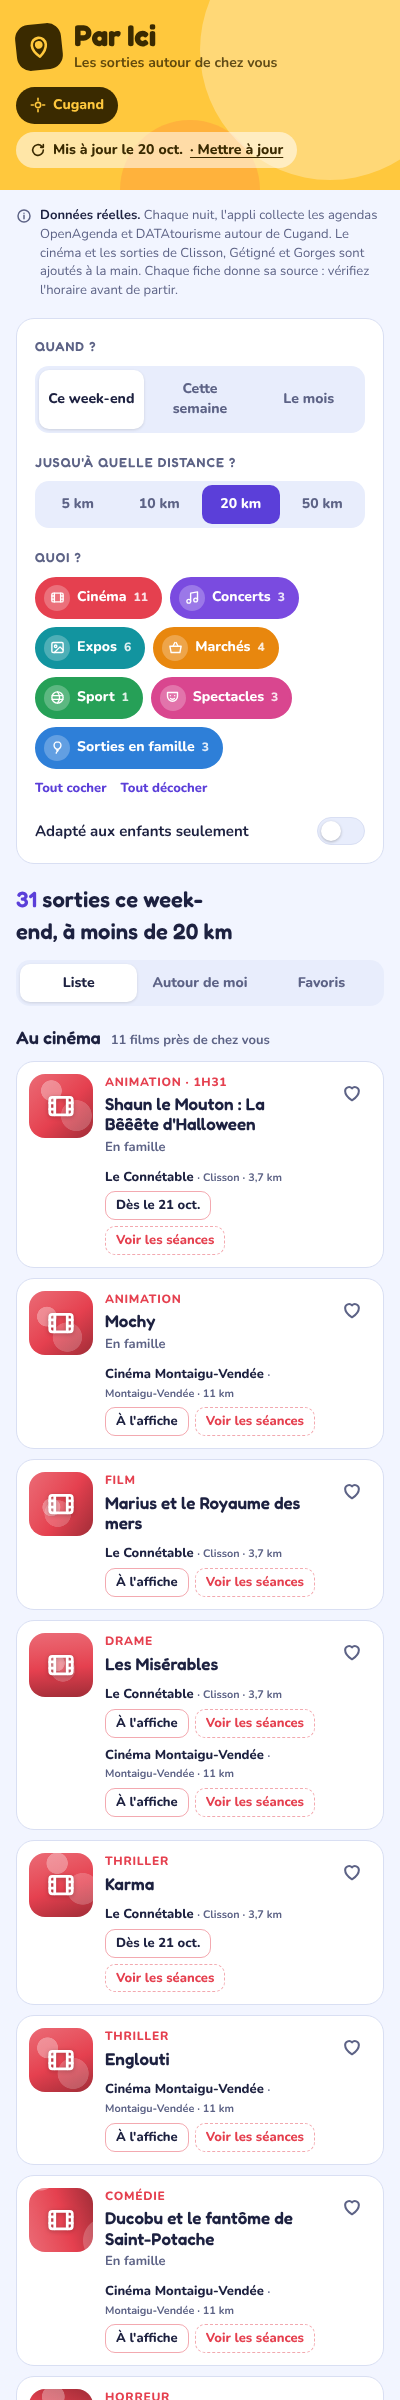
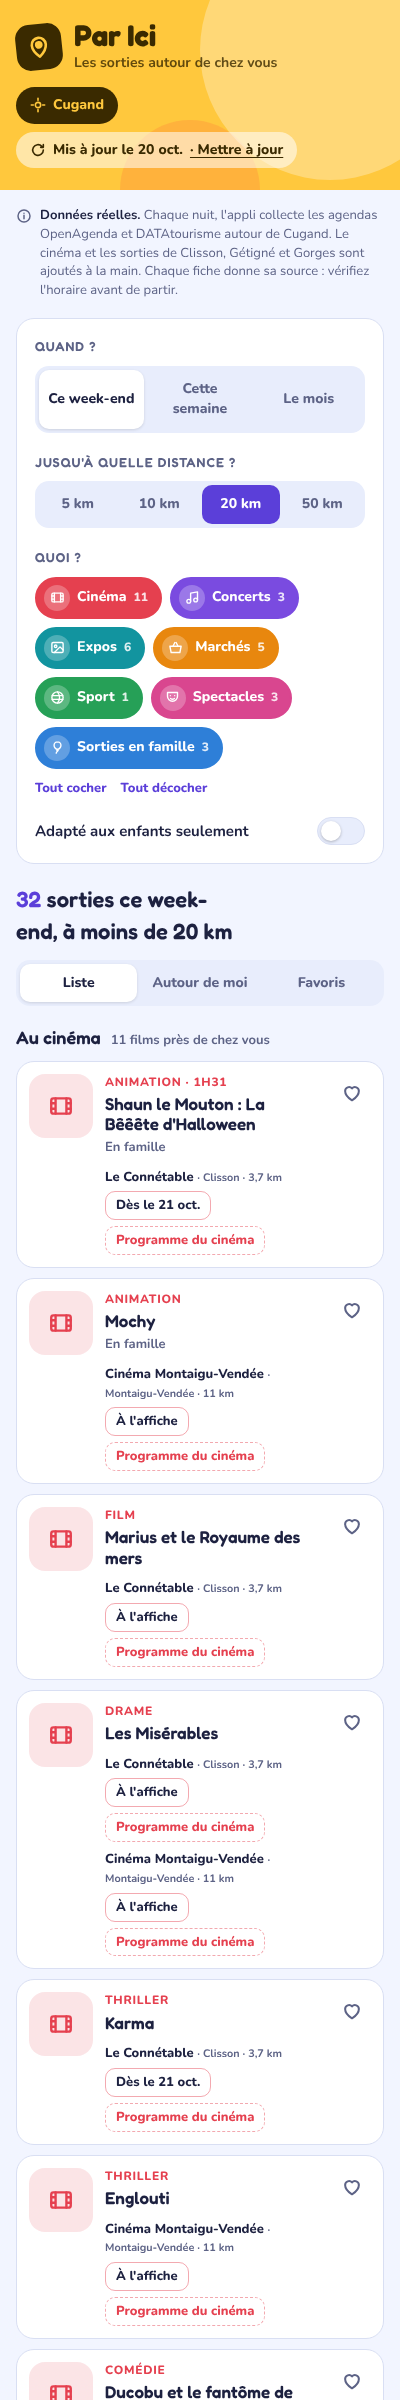
Mise à jour manuelle du 20 octobre (soir)
Jardin de Verre (Mesdemoiselles, plateau partagé), marché de Vallet,
horaires et âge de Rond-Rond.

Claude-Session: https://claude.ai/code/session_01EcVZPgTXZjzsUvP3KH8hjj

diff --git a/public/data.js b/public/data.js
@@ -22,7 +22,8 @@ const C = {
   mortagne: { n: 'Mortagne-sur-Sèvre', lat: 46.9917, lon: -0.9494 },
   boissiere: { n: 'La Boissière-du-Doré', lat: 47.2369, lon: -1.2156 },
   nantes: { n: 'Nantes', lat: 47.2184, lon: -1.5536 },
-  saintherblain: { n: 'Saint-Herblain', lat: 47.2122, lon: -1.6497 }
+  saintherblain: { n: 'Saint-Herblain', lat: 47.2122, lon: -1.6497 },
+  vallet: { n: 'Vallet', lat: 47.1617, lon: -1.2660 }
 };
 
 const SRC = {
@@ -52,7 +53,9 @@ const SRC = {
   boussayChamp: ['Infos Média Nantes, Boussay', 'https://infos-media-nantes.fr/boussay-exposition-champignons-24-25-octobre-2026/'],
   garenne: ['Domaine de la Garenne Lemot', 'https://www.domaine-garenne-lemot.fr/44/l-agenda/agenda-du-domaine-de-la-garenne-lemot/lem_5209'],
   zenith: ['Zénith Nantes Métropole', 'https://www.zenith-nantesmetropole.com/program'],
-  choletBasket: ['Billetterie Cholet Basket', 'https://www.biletwise.com/fr/cholet-basket-tickets']
+  choletBasket: ['Billetterie Cholet Basket', 'https://www.biletwise.com/fr/cholet-basket-tickets'],
+  jardinVerre: ['Jardin de Verre, Cholet', 'https://www.cholet.fr/agenda/agenda_cat_12_8_10_jardin+verre.html'],
+  valletMkt: ['Alentoor, Vallet', 'https://www.alentoor.fr/vallet/agenda']
 };
 
 // Real events collected on 19 October 2026. d = date, to = last day of a multi-day event.
@@ -107,7 +110,9 @@ const EV = [
   { cat: 'spectacle', t: 'La FIV du samedi soir', c: 'cholet', d: '2026-11-06', to: '2026-11-07', h: 'En soirée', p: '21 €', place: 'Balcon Café Théâtre', desc: 'Comédie.', s: 'cholet' },
   { cat: 'spectacle', t: 'ADN', c: 'cholet', d: '2026-11-12', h: 'Horaire à confirmer', p: 'Voir la billetterie', place: 'Théâtre Saint-Louis', desc: 'Théâtre.', s: 'stlouis' },
   { cat: 'spectacle', t: 'La Noce d\'Alphonse', c: 'cholet', d: '2026-11-17', h: 'Horaire à confirmer', p: 'Voir la billetterie', place: 'Théâtre Saint-Louis', desc: 'Théâtre.', s: 'stlouis' },
-  { cat: 'spectacle', t: 'Rond Rond', c: 'cholet', d: '2026-11-18', h: 'Horaire à confirmer', p: 'Voir la billetterie', place: 'Théâtre Saint-Louis', desc: 'Spectacle de la saison du Théâtre Saint-Louis.', s: 'stlouis' },
+  { cat: 'spectacle', t: 'Rond-Rond', c: 'cholet', d: '2026-11-18', h: '10h00 et 16h30', p: 'Voir la billetterie', kids: true, place: 'Théâtre Saint-Louis, salle Gene Kelly', desc: 'Spectacle tout-petits de la compagnie Piment, Langue d\'Oiseau, pour les 1-5 ans.', s: 'stlouis' },
+  { cat: 'spectacle', t: 'Mesdemoiselles', c: 'cholet', d: '2026-11-15', h: 'Horaire à confirmer', p: 'Voir la billetterie', place: 'Jardin de Verre', desc: 'Spectacle de la saison du Jardin de Verre.', s: 'jardinVerre' },
+  { cat: 'concert', t: 'Plateau partagé : Coline Linder', c: 'cholet', d: '2026-11-19', h: 'Horaire à confirmer', p: 'Voir la billetterie', place: 'Jardin de Verre', desc: 'Soirée plateau partagé avec Coline Linder.', s: 'jardinVerre' },
   { cat: 'concert', t: 'Daoud', c: 'herbiers', d: '2026-11-05', h: '20h30', p: 'Voir la billetterie', place: 'Saison culturelle des Herbiers', desc: 'Concert de la saison culturelle.', s: 'herbiers' },
   { cat: 'famille', t: 'Fête de la fressure', c: 'herbiers', d: '2026-11-07', h: 'Horaire à confirmer', p: 'À confirmer', place: 'Salle Ferchault', desc: 'Fête traditionnelle autour de la fressure, plat vendéen de saison.', s: 'alentoorH' },
   { cat: 'concert', t: 'Thanda Choir', c: 'herbiers', d: '2026-11-10', h: '20h30', p: 'Complet', place: 'Saison culturelle des Herbiers', desc: 'Concert de chœur. Annoncé complet.', s: 'herbiers' },
@@ -133,6 +138,7 @@ const EV = [
 
 // Weekly markets, expanded into dated occurrences below. wd: 0 = Sunday … 6 = Saturday.
 const MARKETS = [
+  { t: 'Marché du dimanche', c: 'vallet', wd: 0, h: 'Le matin', place: 'Place Charles de Gaulle', desc: 'Grand marché du dimanche matin, près de 80 commerçants.', s: 'valletMkt' },
   { t: 'Marché alimentaire sous les Halles', c: 'clisson', wd: 2, h: '8h30 – 13h00', place: 'Halles de Clisson', desc: 'Marché alimentaire hebdomadaire sous les halles médiévales.', s: 'clissonMkt' },
   { t: 'Grand marché du vendredi', c: 'clisson', wd: 5, h: 'Le matin', place: 'Centre historique de Clisson', desc: 'Alimentation, vêtements, outillage et jardinage. Les stands vont jusqu\'à la place Lemot et au parking du château.', s: 'clissonMkt' },
   { t: 'Marché du samedi', c: 'montaigu', wd: 6, h: 'Le matin', place: 'Place de l\'Hôtel de Ville', desc: 'Marché hebdomadaire de Montaigu.', s: 'montaiguMkt' }
